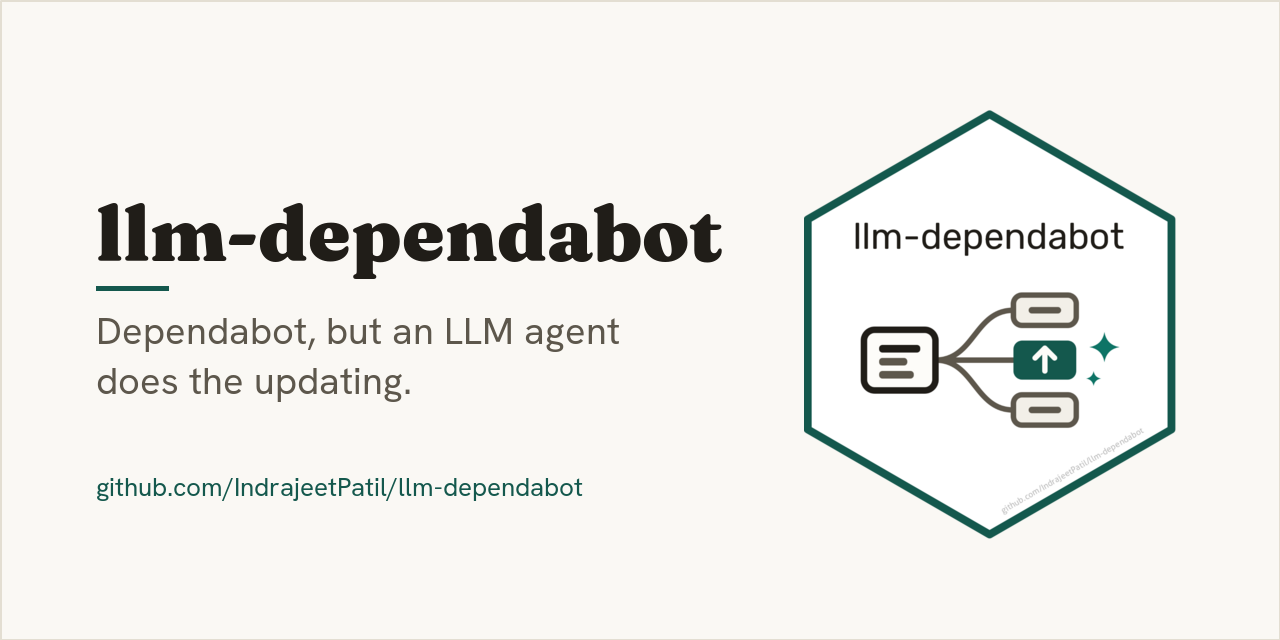
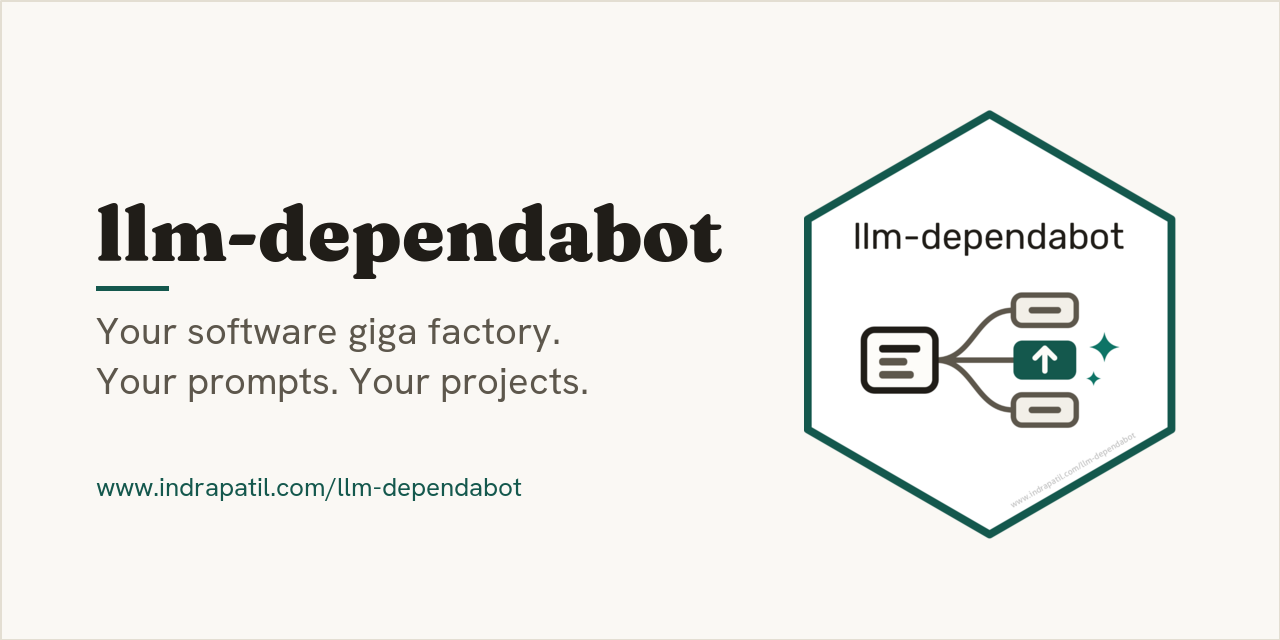
docs(positioning): explain the software giga factory scope (#11)
## Summary

Position llm-dependabot as a software giga factory coordinating
repository-owned prompts across projects. Explain how scheduling,
isolated worktrees, and each project's checks and review support
maintenance beyond dependency updates.

- Rewrite the README introduction and explain the project-level
factories.
- Align documentation metadata and the reproducible GitHub social card.
- Put the published documentation URL on the hex sticker and social
card; regenerate the logo, favicon, and app icon, and synchronise the
design guidance.
- The changed app icon requires renewing Full Disk Access when the app
is next rebuilt.
- Update the GitHub description and discovery topics to match; upload
and verify the regenerated social preview in repository settings.

## Validation

- `make docs` (strict build), `make hooks`, and `git diff --check` pass.
- Regenerate the 1280 × 640 social card with `Rscript
hextools/social-card.R` and inspect it visually.

## Visual evidence

![Refreshed social
preview](https://raw.githubusercontent.com/IndrajeetPatil/llm-dependabot/d471004/docs/images/social-card.png)

## Drive-by cleanup

None needed.

Changed region(s): [[0.0625, 0.5, 0.5, 0.625], [0.0625, 0.75, 0.4688, 0.7812]]

diff --git a/README.md b/README.md
@@ -1,7 +1,8 @@
 # llm-dependabot <img src="https://raw.githubusercontent.com/IndrajeetPatil/llm-dependabot/main/docs/images/logo.png" align="right" width="240" alt="llm-dependabot hex sticker" />
 
-A template for your own software giga factory: a coding agent keeps your
-repositories up to date and opens pull requests for you to review.
+A template for your own software giga factory: schedule repository-owned
+prompts across your projects, and let a coding agent turn maintenance work
+into pull requests for you to review.
 
 ## The problem
 
@@ -23,11 +24,19 @@ more repositories you maintain, the further this work falls behind.
 
 ## The solution
 
-llm-dependabot hands that work to a coding agent. Each repository commits
+llm-dependabot coordinates a software factory in each of your projects.
+Each repository commits
 prompts describing its own maintenance (updating dependencies, simplifying
 the codebase, or anything else), and on a schedule, llm-dependabot runs each
 due prompt with the agent. The agent opens a pull request, which goes through
 the project's own checks and your review like any other.
+
+The giga factory is the layer coordinating those project-level factories:
+it decides which repositories and prompts are due, prepares isolated
+worktrees, and invokes your chosen agent. Dependency updates are one use
+case; repository-owned prompts can also cover refactoring, documentation,
+or other repeatable work. The prompts define the work, and each project
+provides its own instructions, checks, and review process.
 
 - **Opt in per repository and prompt:** a repository takes part in each
   prompt it commits, such as `.github/prompts/update-deps.md` or

diff --git a/DESIGN.md b/DESIGN.md
@@ -82,7 +82,7 @@ paper, ink, hairlines, and one accent.
   `accent-light` beside it for the language model.
 - **Frame:** white fill and an accent border, as on the other project stickers.
 - **Type:** the package name in Rubik, ink, centred above the artwork; the
-  repository URL in small grey type along the lower-right edge.
+  documentation site URL in small grey type along the lower-right edge.
 - **Icon:** the same sticker centred on a transparent square, so the app is
   recognisable in Full Disk Access next to the sticker in the README.
 - Keep the drawing flat: no shadows, gradients, texture, or emoji.
@@ -91,7 +91,7 @@ paper, ink, hairlines, and one accent.
 
 - **Layout:** 1280 × 640 on `bg` with a `border` hairline frame; the sticker
   on the right, and on the left the name in Fraunces (`text`), a short accent
-  rule, the tagline in Hanken Grotesk (`text-muted`), and the repository URL
+  rule, the tagline in Hanken Grotesk (`text-muted`), and the documentation site URL
   in the accent.
 - **Source:** `hextools/social-card.R`, which reuses the rendered sticker.
 
